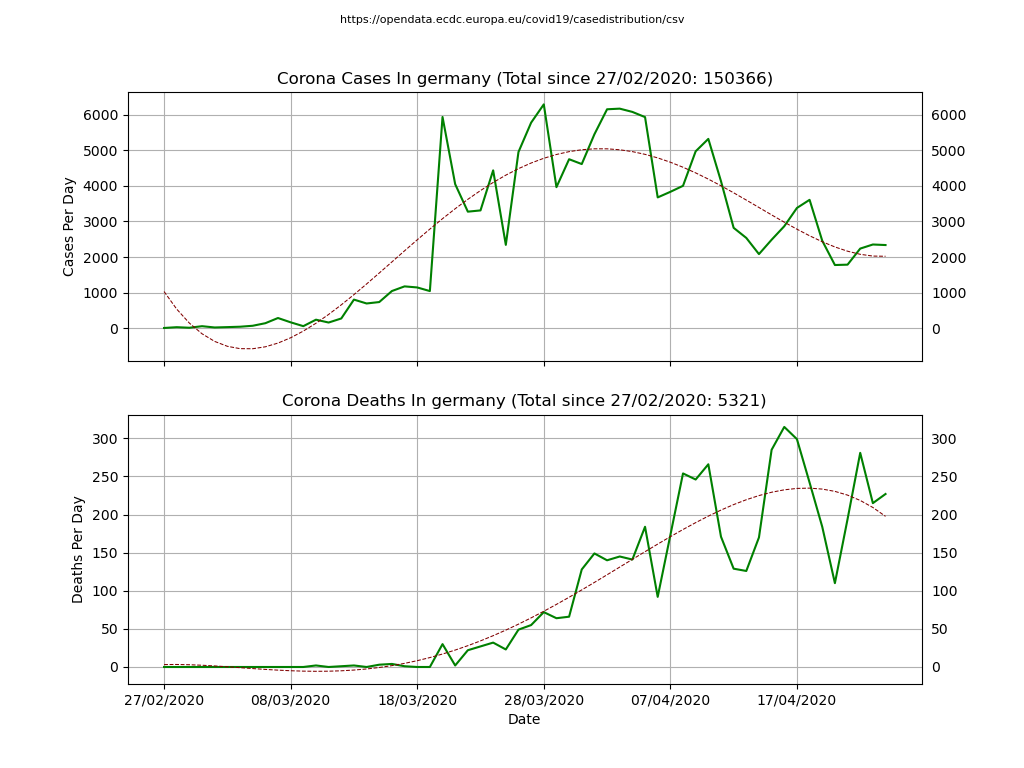
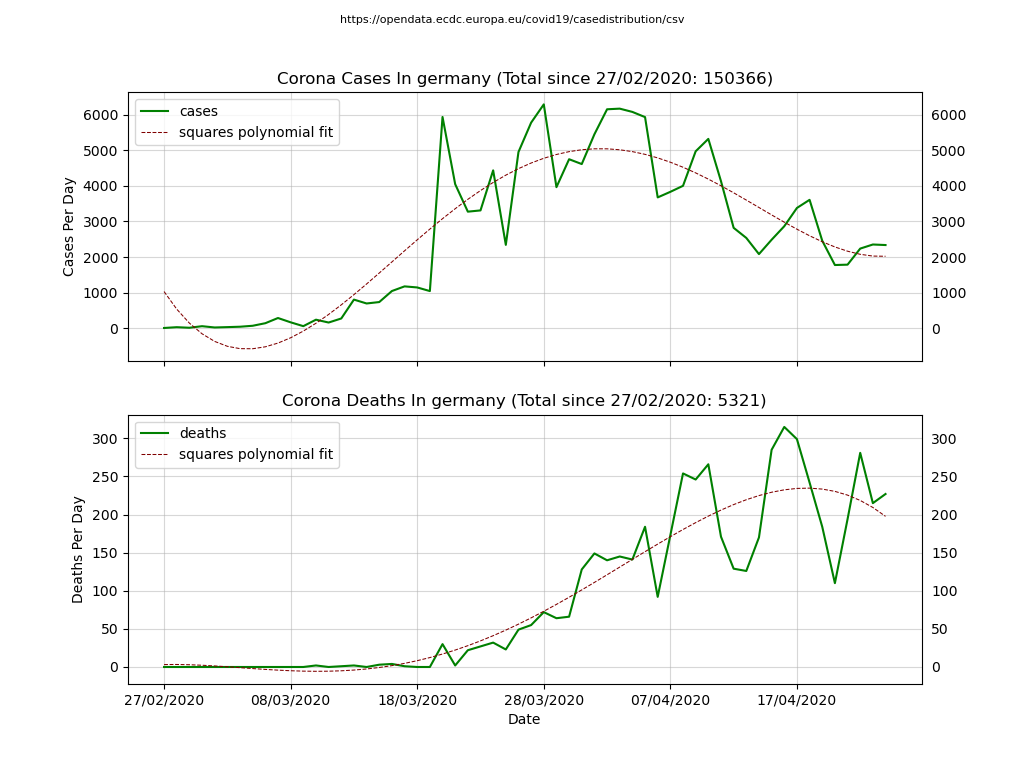
#13 Show legend on top left side  - also adjust grid with alpha 0.5  - image updated

Changed region(s): [[0.125, 0.5312, 0.3438, 0.625], [0.125, 0.125, 0.3438, 0.2188]]

diff --git a/visualize.py b/visualize.py
@@ -131,17 +131,21 @@ class Application:
         country = self.country_filter if not self.country_filter == 'all' else 'All Countries'
         title = 'Corona %s In %s (Total since %s: %d)' % \
             (name.title(), country, self.first_day, total)
-        axes = self.df_concrete.plot(x='dateRep', y=name, title=title,
-                                     ax=target,
-                                     kind='line', grid=True, color='#008000', legend=False)
-        axes.set_xlabel('Date')
-        axes.set_ylabel('%s Per Day' % name.title())
-        axes.tick_params(labelleft=True, labelright=True)
+        self.df_concrete.plot(x='dateRep', y=name, title=title,
+                              ax=target,
+                              kind='line', grid=False, color='#008000', legend=False)
 
         # square polynomial fit for Corona cases
         x = np.arange(self.df_concrete['dateRep'].values.flatten().shape[0])
         p = np.poly1d(np.polyfit(x, self.df_concrete[name].values.flatten(), 4))
-        target.plot(x, p(x), linestyle='dashed', linewidth=0.75, color='#800000')
+        target.plot(x, p(x), label='squares polynomial fit',
+                    linestyle='dashed', linewidth=0.75, color='#800000')
+
+        target.set_xlabel('Date')
+        target.set_ylabel('%s Per Day' % name.title())
+        target.tick_params(labelleft=True, labelright=True)
+        target.grid(alpha=0.5)
+        target.legend(loc='upper left')
 
     def visualize(self):
         """Plotting the data."""

diff --git a/README.md b/README.md
@@ -67,3 +67,4 @@ Hints:
  - https://opendata.ecdc.europa.eu/covid19/casedistribution/csv
  - https://www.rki.de/SiteGlobals/Functions/RSSFeed/RSSGenerator_nCoV.xml
  - Used libraries (documention in this repository) [here](docs/pandas-and-friends.md)
+

diff --git a/docs/pandas-and-friends.md b/docs/pandas-and-friends.md
@@ -125,3 +125,4 @@ plt.show()
 
  - https://requests.readthedocs.io/en/master/
  - https://click.palletsprojects.com/en/7.x/
+ - https://numpy.org/doc/stable/reference/generated/numpy.polyfit.html?highlight=polyfit#numpy.polyfit
